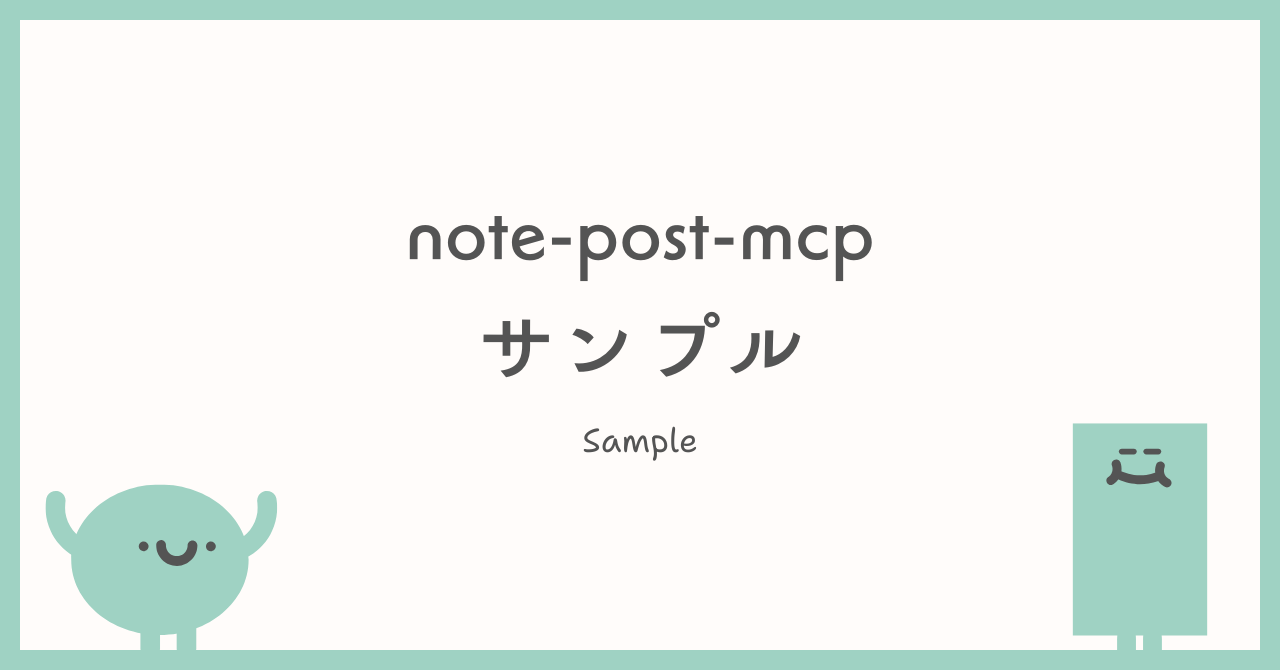
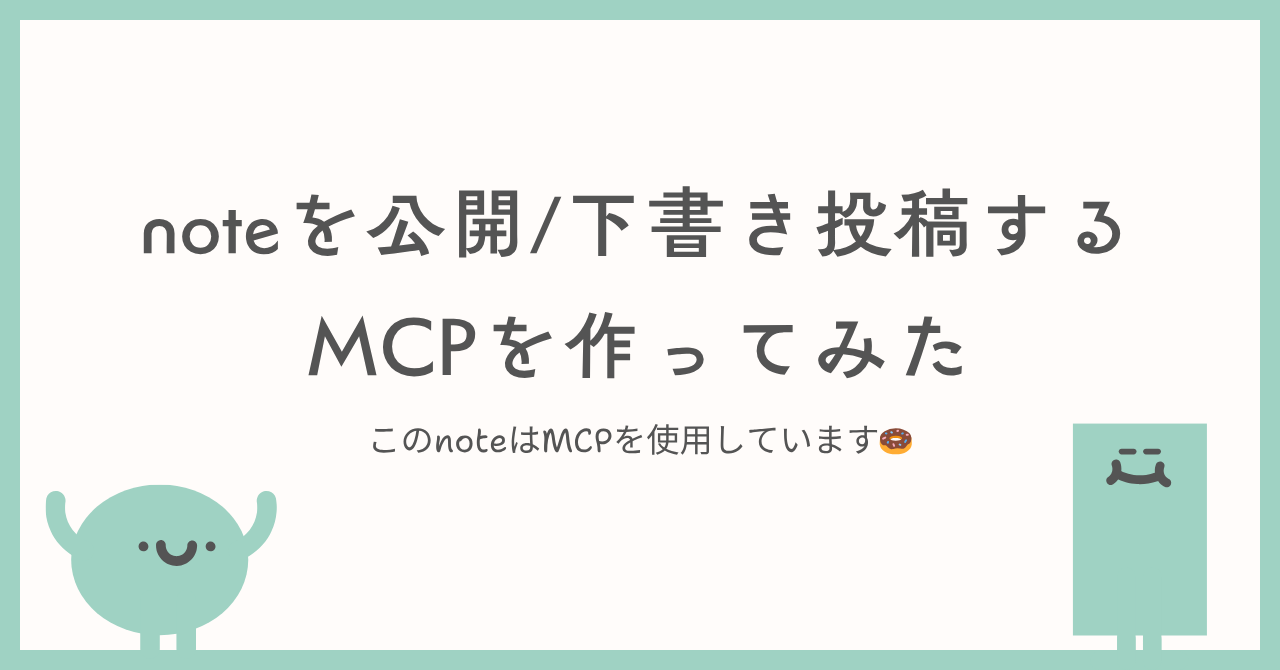
exampleやサムネイルの修正

diff --git a/example.md b/example.md
@@ -1,12 +1,36 @@
 ---
-title: note.com マークダウン記法完全ガイド
+title: note.com マークダウン記法完全ガイドをMCPで自動投稿してみる。
 tags:
   - マークダウン
   - note
   - MCP
 ---
 
-このMCPサーバーを使えば、マークダウンファイルから直接noteに投稿できます。以下、noteでサポートされている全ての要素のサンプルを示します。
+こんにちは、🍩です。
+
+こちらのnote、大変好評をいただきとても嬉しいです。
+ビューは10,000を超え、スキは440もいただきました、本当にありがとうございます！！
+![スキ](./note-view-like.png)
+
+https://note.com/joyous_hawk969/n/n7e325e86a3db
+
+今回は、noteへ公開投稿or下書き投稿ができるツール、"note-post-mcp"を作りました。
+こちらは、前回のnoteとは違い、マークダウンファイルからnoteへの公開投稿/下書き投稿をするのみの機能です。
+その代わり、Cursor、Claude Desctop、Codexなどを活用し、前回のような全自動ではなく、記事の質にこだわりたい方向けになります。
+詳細の解説は、READMEやQUICKSTARTにおまかせしますが、このMCPサーバーを使えば、より自分の管理化でAIと協力しやすくなるのではないかと考えています。
+
+https://github.com/Go-555/note-post-mcp
+
+### おすすめの執筆方法
+
+1. example.mdをコンテキストにする
+2. AIとともに執筆する
+
+こちらのnote自体が、このMCPでどんなことができるのかのサンプルになっています。
+動画はのちほど、手動でリンクをセットさせてください。笑
+
+---
+以下、noteでサポートされている全ての要素のサンプルを示します。
 
 ## 大見出し（見出し2）
 ### 小見出し（見出し3）
@@ -103,7 +127,6 @@ https://note.com/joyous_hawk969/n/n7e325e86a3db
 - **ファイル添付**: エディタの「+」ボタンから添付
 - **音声ファイル**: エディタの「+」ボタンから添付
 - **有料エリア**: 記事公開時の設定で指定
-- **録音**: noteのエディタには録音機能が存在しません
 
 
 ---
@@ -121,9 +144,13 @@ tags:
 ---
 ```
 
-詳しくはGitHubのREADMEをご覧ください：
+詳しくはGitHubをご覧ください：
 
 https://github.com/Go-555/note-post-mcp
+
+今後は、こちらを使用したnote執筆サポートアプリの開発に着手していこうと考えています。
+アプリでは、完全自動化したいというニーズ、熱量を込めながら効率化したいというニーズの両方に対応できるように考えております。
+引き続き、応援していただけると嬉しいです。
 
 読んでいただき、ありがとうございました🍩
 
